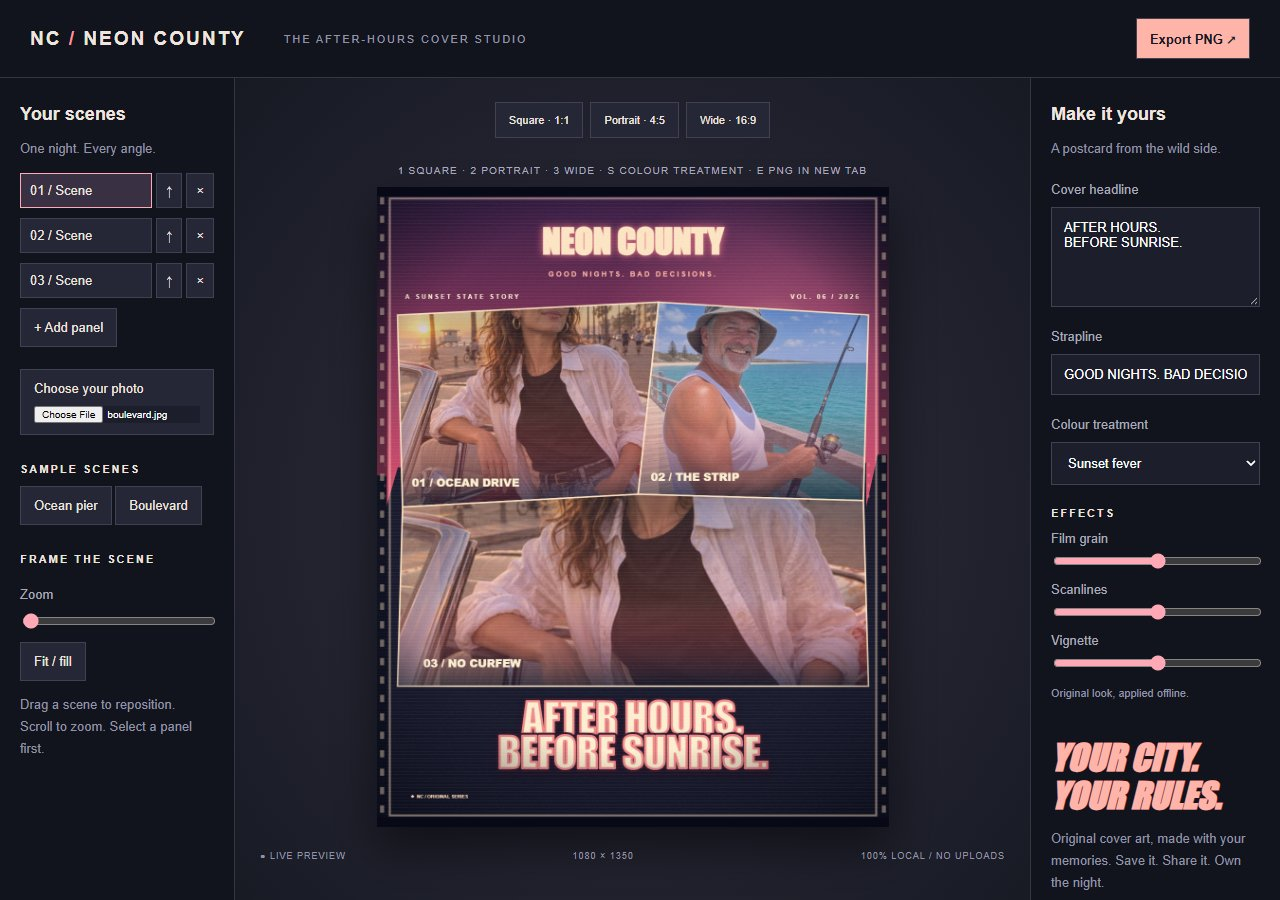
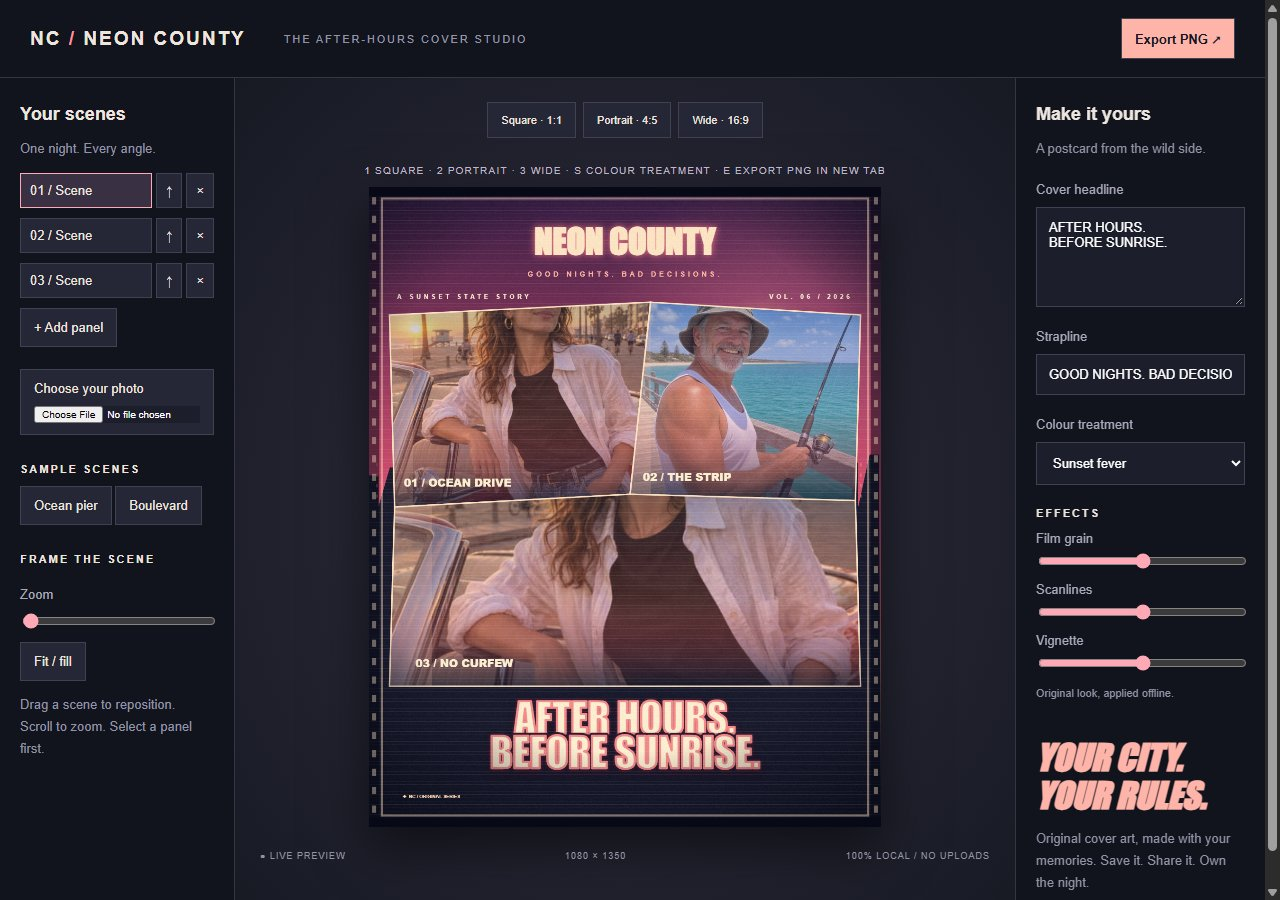
Final polish: finer grain, tape edge, comment the effects pass and refresh the screenshots

diff --git a/app/src/cover-art.js b/app/src/cover-art.js
@@ -181,7 +181,7 @@ export function drawMasthead(context, width, height, strap) {
 
   context.shadowBlur = 0;
   context.font = `700 ${width * 0.014}px Arial`;
-  context.letterSpacing = `${width * 0.004}px`;
+  context.letterSpacing = `${width * 0.004 + 2}px`;
   context.fillStyle = '#ffb4a3';
   context.fillText(String(strap || 'GOOD NIGHTS. BAD DECISIONS.').toUpperCase(), width / 2, height * 0.14);
 
@@ -216,6 +216,7 @@ export function render(canvas, state) {
   context.font = `bold ${width * 0.009}px Arial`;
   context.fillText('◆  NC / ORIGINAL SERIES', width * 0.065, height * 0.955);
   context.restore();
+  // Letterbox and grain are drawn last so every panel keeps its crisp edge.
   drawGrain(context, width, height, state.grain ?? 1);
   drawScanlines(context, width, height, state.scanlines ?? 1, "#fff");
   drawLightLeak(context, width, height, state.lightLeak ?? 0, "#ffb476");

diff --git a/app/src/effects.js b/app/src/effects.js
@@ -15,6 +15,7 @@ export function drawVignette(context, width, height, strength) {
 
 let grainTile;
 
+// The tile is seeded so every render is identical.
 export function drawGrain(context, width, height, strength) {
   context.save();
   context.globalAlpha = 0.09 * Math.max(0, strength);
@@ -26,7 +27,7 @@ export function drawGrain(context, width, height, strength) {
     let seed = 1977;
     for (let i = 0; i < pixels.data.length; i += 4) {
       seed = (Math.imul(seed, 1664525) + 1013904223) >>> 0;
-      const value = Math.max(0, Math.min(255, ((seed >>> 24) - 128) * 1.2 + 128));
+      const value = Math.max(0, Math.min(255, ((seed >>> 24) - 128) * 1.25 + 128));
       pixels.data.set([value, value, value, 80], i);
     }
     tile.putImageData(pixels, 0, 0);

diff --git a/app/index.html b/app/index.html
@@ -34,7 +34,7 @@
           <button data-size="1080,1350" data-shortcut="2">Portrait · 4:5</button>
           <button data-size="1920,1080" data-shortcut="3">Wide · 16:9</button>
         </nav>
-        <p class="shortcut-hint" id="shortcut-hint">1 Square · 2 Portrait · 3 Wide · S Colour treatment</p>
+        <p class="shortcut-hint" id="shortcut-hint">1 Square · 2 Portrait · 3 Wide · S Colour treatment · E Export PNG in new tab</p>
         <div class="canvas-wrap"><canvas id="poster"></canvas></div>
         <footer>
           <span>● LIVE PREVIEW</span>

diff --git a/app/src/app.js b/app/src/app.js
@@ -155,7 +155,7 @@ $('#shortcut-hint').textContent = [
   ...Array.from(document.querySelectorAll('[data-shortcut]'), (button) =>
     `${button.dataset.shortcut} ${button.textContent.split(' \u00b7 ')[0]}`),
   `${shortcuts.colour.toUpperCase()} Colour treatment`,
-  `${shortcuts.export.toUpperCase()} PNG in new tab`,
+  `${shortcuts.export.toUpperCase()} Export PNG in new tab`,
 ].join(' \u00b7 ');
 
 document.addEventListener('keydown', (event) => {

diff --git a/app/style.css b/app/style.css
@@ -241,4 +241,4 @@ body.cover > script {
 .effects input { margin-top: 6px; }
 .effects p { font-size: 11px; }
 
-.shortcut-hint { margin: 8px 0; color: #b5afc1; font-size: 10px; text-transform: uppercase; letter-spacing: .12em; text-align: center; }
+.shortcut-hint { margin: 8px 0; color: #c5bfd1; font-size: 10px; text-transform: uppercase; letter-spacing: .12em; text-align: center; }

diff --git a/README.md b/README.md
@@ -19,6 +19,7 @@ Then open http://localhost:8080. The first visit loads two bundled sample scenes
 Neon County composes a poster from up to four hard-cut scenes. Drag inside the preview to pan, use the zoom slider or scroll wheel to zoom, and choose Fit / fill to switch the crop. Reorder scenes with the arrow buttons, remove them with ×, or add a scene. Caption, strapline, colour grade, and framing update the live canvas as you work.
 
 Fine deterministic grain and a subtle sprocket-hole tape edge finish the cover.
+- Finer seeded grain and keyboard shortcuts for sizes (1–3), colour (S), and PNG export (E).
 
 ## Export sizes
 
